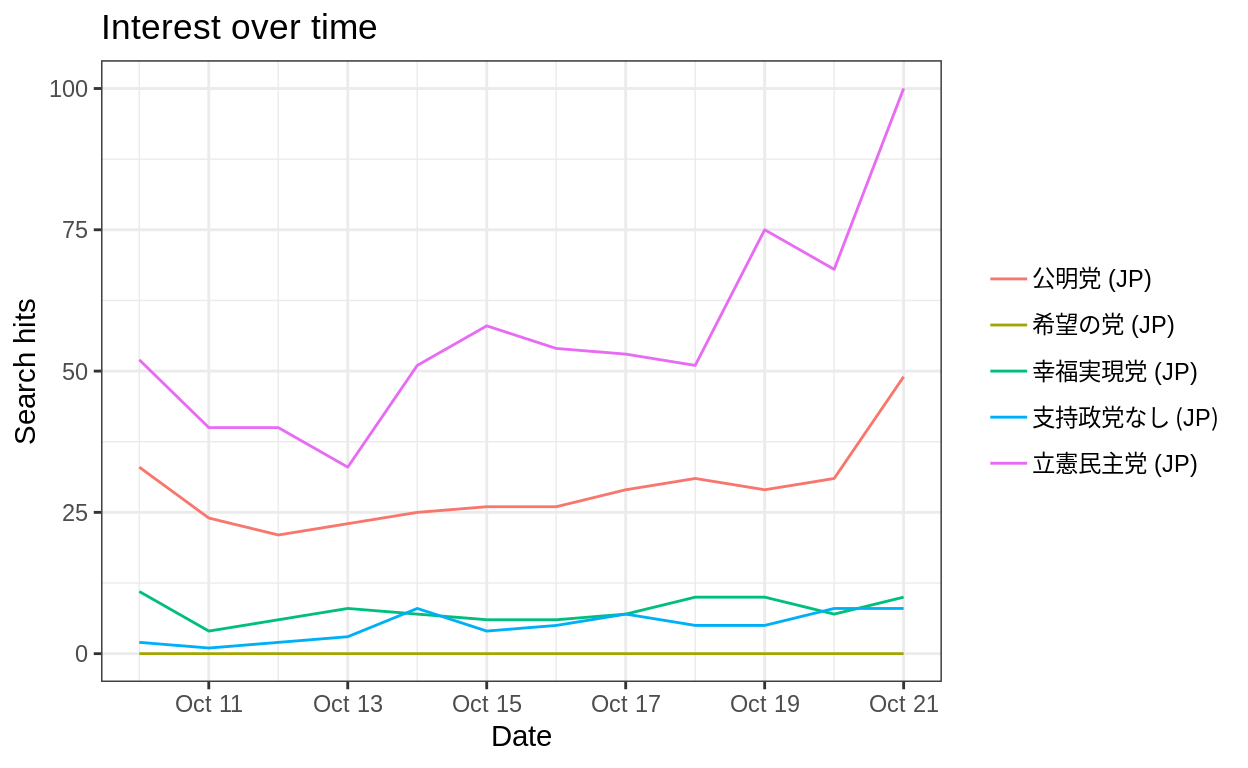
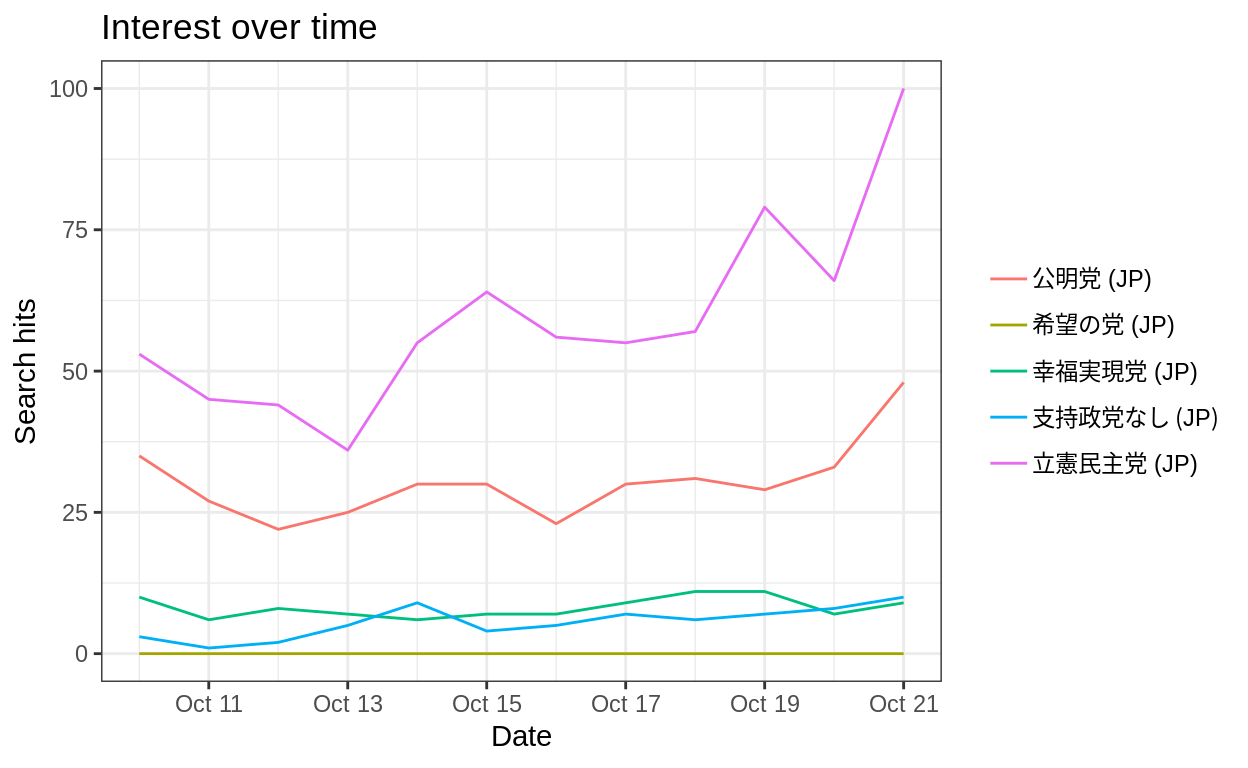
modify note on scraping google trends

diff --git a/notes/posts/2019-05-09-scraping-google/index.html b/notes/posts/2019-05-09-scraping-google/index.html
@@ -1424,7 +1424,7 @@ List of 7
  $ interest_by_country: NULL
  $ interest_by_region :&#39;data.frame&#39;:    94 obs. of  5 variables:
  $ interest_by_dma    : NULL
- $ interest_by_city   :&#39;data.frame&#39;:    72 obs. of  5 variables:
+ $ interest_by_city   :&#39;data.frame&#39;:    73 obs. of  5 variables:
  $ related_topics     : NULL
  $ related_queries    :&#39;data.frame&#39;:    100 obs. of  6 variables:
   ..- attr(*, &quot;reshapeLong&quot;)=List of 4
@@ -1463,7 +1463,7 @@ trend$related_queries %&gt;%
   paged_table()</code></pre>
 <div data-pagedtable="false">
 <script data-pagedtable-source type="application/json">
-{"columns":[{"label":["subject"],"name":[1],"type":["chr"],"align":["left"]},{"label":["related_queries"],"name":[2],"type":["chr"],"align":["left"]},{"label":["value"],"name":[3],"type":["chr"],"align":["left"]},{"label":["geo"],"name":[4],"type":["chr"],"align":["left"]},{"label":["keyword"],"name":[5],"type":["chr"],"align":["left"]},{"label":["category"],"name":[6],"type":["int"],"align":["right"]}],"data":[{"1":"100","2":"top","3":"小泉 純一郎","4":"JP","5":"小泉純一郎","6":"0"},{"1":"98","2":"top","3":"小泉","4":"JP","5":"小泉純一郎","6":"0"},{"1":"10","2":"top","3":"小泉 進次郎","4":"JP","5":"小泉純一郎","6":"0"},{"1":"7","2":"top","3":"小泉 孝太郎","4":"JP","5":"小泉純一郎","6":"0"},{"1":"6","2":"top","3":"小泉 純一郎 妻","4":"JP","5":"小泉純一郎","6":"0"},{"1":"4","2":"top","3":"小泉 純一郎 大学","4":"JP","5":"小泉純一郎","6":"0"},{"1":"4","2":"top","3":"安倍 晋三","4":"JP","5":"小泉純一郎","6":"0"},{"1":"4","2":"top","3":"小泉 純一郎 三男","4":"JP","5":"小泉純一郎","6":"0"},{"1":"4","2":"top","3":"小泉 純一郎 息子","4":"JP","5":"小泉純一郎","6":"0"},{"1":"2","2":"top","3":"小泉 純一郎 現在","4":"JP","5":"小泉純一郎","6":"0"},{"1":"2","2":"top","3":"麻生 太郎","4":"JP","5":"小泉純一郎","6":"0"},{"1":"2","2":"top","3":"宮本 佳代子","4":"JP","5":"小泉純一郎","6":"0"},{"1":"2","2":"top","3":"小池 百合子","4":"JP","5":"小泉純一郎","6":"0"},{"1":"2","2":"top","3":"小泉 純一郎 離婚","4":"JP","5":"小泉純一郎","6":"0"},{"1":"2","2":"top","3":"小泉 純一郎 元 首相 の 出身 大学 は どこ","4":"JP","5":"小泉純一郎","6":"0"},{"1":"1","2":"top","3":"小泉 純一郎 子供","4":"JP","5":"小泉純一郎","6":"0"},{"1":"1","2":"top","3":"小泉 純一郎 若い 頃","4":"JP","5":"小泉純一郎","6":"0"},{"1":"1","2":"top","3":"小泉 純一郎 原発","4":"JP","5":"小泉純一郎","6":"0"},{"1":"1","2":"top","3":"小泉 純一郎 講演","4":"JP","5":"小泉純一郎","6":"0"},{"1":"1","2":"top","3":"宮本 佳 長","4":"JP","5":"小泉純一郎","6":"0"},{"1":"1","2":"top","3":"小泉 純一郎 名言","4":"JP","5":"小泉純一郎","6":"0"},{"1":"1","2":"top","3":"小泉 純一郎 在 日","4":"JP","5":"小泉純一郎","6":"0"},{"1":"1","2":"top","3":"小泉 純一郎 北 朝鮮","4":"JP","5":"小泉純一郎","6":"0"},{"1":"1","2":"top","3":"小沢 一郎","4":"JP","5":"小泉純一郎","6":"0"},{"1":"1","2":"top","3":"小泉 純一郎 姉","4":"JP","5":"小泉純一郎","6":"0"},{"1":"Breakout","2":"rising","3":"第 87 89 代 に 渡り 内閣 総理 大臣 だっ た 小泉 純一郎 の 誕生 日 は","4":"JP","5":"小泉純一郎","6":"0"},{"1":"+4,500%","2":"rising","3":"ヤフー 北 朝鮮","4":"JP","5":"小泉純一郎","6":"0"},{"1":"+4,500%","2":"rising","3":"ビット コイン","4":"JP","5":"小泉純一郎","6":"0"},{"1":"+1,600%","2":"rising","3":"小池 百合子","4":"JP","5":"小泉純一郎","6":"0"},{"1":"+500%","2":"rising","3":"小泉 純一郎 現在","4":"JP","5":"小泉純一郎","6":"0"},{"1":"+400%","2":"rising","3":"小泉 純一郎 誕生 日","4":"JP","5":"小泉純一郎","6":"0"},{"1":"+300%","2":"rising","3":"小泉 純一郎 北 朝鮮","4":"JP","5":"小泉純一郎","6":"0"},{"1":"+250%","2":"rising","3":"小泉 純一郎 嫁","4":"JP","5":"小泉純一郎","6":"0"},{"1":"+250%","2":"rising","3":"小泉 孝太郎 結婚","4":"JP","5":"小泉純一郎","6":"0"},{"1":"+250%","2":"rising","3":"小泉 純一郎 子供","4":"JP","5":"小泉純一郎","6":"0"},{"1":"+250%","2":"rising","3":"小泉 純一郎 姉","4":"JP","5":"小泉純一郎","6":"0"},{"1":"+200%","2":"rising","3":"小泉 純一郎 家 系図","4":"JP","5":"小泉純一郎","6":"0"},{"1":"+180%","2":"rising","3":"小泉 純一郎 の 子供","4":"JP","5":"小泉純一郎","6":"0"},{"1":"+170%","2":"rising","3":"小泉 信 三","4":"JP","5":"小泉純一郎","6":"0"},{"1":"+150%","2":"rising","3":"小泉 純一郎 名言","4":"JP","5":"小泉純一郎","6":"0"},{"1":"+150%","2":"rising","3":"小泉 純一郎 年齢","4":"JP","5":"小泉純一郎","6":"0"},{"1":"+140%","2":"rising","3":"小泉 純一郎 若い 頃","4":"JP","5":"小泉純一郎","6":"0"},{"1":"+130%","2":"rising","3":"小泉 進一郎","4":"JP","5":"小泉純一郎","6":"0"},{"1":"+130%","2":"rising","3":"小泉 純一郎 講演 会","4":"JP","5":"小泉純一郎","6":"0"},{"1":"+120%","2":"rising","3":"小泉 純一郎 離婚 理由","4":"JP","5":"小泉純一郎","6":"0"},{"1":"+110%","2":"rising","3":"小泉 孝太郎","4":"JP","5":"小泉純一郎","6":"0"},{"1":"+100%","2":"rising","3":"小泉 純一郎 講演","4":"JP","5":"小泉純一郎","6":"0"},{"1":"+100%","2":"rising","3":"小泉 純一郎 感動 した","4":"JP","5":"小泉純一郎","6":"0"},{"1":"+100%","2":"rising","3":"小泉 純一郎 学歴","4":"JP","5":"小泉純一郎","6":"0"},{"1":"+100%","2":"rising","3":"宮本 佳 長","4":"JP","5":"小泉純一郎","6":"0"},{"1":"100","2":"top","3":"小泉","4":"JP","5":"小泉進次郎","6":"0"},{"1":"99","2":"top","3":"小泉 進次郎","4":"JP","5":"小泉進次郎","6":"0"},{"1":"11","2":"top","3":"小泉 進次郎 小泉 孝太郎","4":"JP","5":"小泉進次郎","6":"0"},{"1":"11","2":"top","3":"小泉 孝太郎 進次郎","4":"JP","5":"小泉進次郎","6":"0"},{"1":"10","2":"top","3":"小泉 孝太郎","4":"JP","5":"小泉進次郎","6":"0"},{"1":"4","2":"top","3":"小泉 純一郎","4":"JP","5":"小泉進次郎","6":"0"},{"1":"3","2":"top","3":"小泉 進次郎 大学","4":"JP","5":"小泉進次郎","6":"0"},{"1":"3","2":"top","3":"小泉 進次郎 結婚","4":"JP","5":"小泉進次郎","6":"0"},{"1":"2","2":"top","3":"選挙","4":"JP","5":"小泉進次郎","6":"0"},{"1":"2","2":"top","3":"小泉 進次郎 演説","4":"JP","5":"小泉進次郎","6":"0"},{"1":"2","2":"top","3":"小泉 進次郎 彼女","4":"JP","5":"小泉進次郎","6":"0"},{"1":"2","2":"top","3":"自民党","4":"JP","5":"小泉進次郎","6":"0"},{"1":"2","2":"top","3":"自民党 小泉 進次郎","4":"JP","5":"小泉進次郎","6":"0"},{"1":"1","2":"top","3":"小泉 進次郎 身長","4":"JP","5":"小泉進次郎","6":"0"},{"1":"1","2":"top","3":"小泉 進次郎 妻","4":"JP","5":"小泉進次郎","6":"0"},{"1":"1","2":"top","3":"小泉 進次郎 総理","4":"JP","5":"小泉進次郎","6":"0"},{"1":"1","2":"top","3":"小泉 進次郎 ブログ","4":"JP","5":"小泉進次郎","6":"0"},{"1":"1","2":"top","3":"安倍 晋三","4":"JP","5":"小泉進次郎","6":"0"},{"1":"1","2":"top","3":"小泉 進次郎 学歴","4":"JP","5":"小泉進次郎","6":"0"},{"1":"1","2":"top","3":"関東 学院 大学","4":"JP","5":"小泉進次郎","6":"0"},{"1":"1","2":"top","3":"小泉 進次郎 兄弟","4":"JP","5":"小泉進次郎","6":"0"},{"1":"1","2":"top","3":"小泉 進次郎 母","4":"JP","5":"小泉進次郎","6":"0"},{"1":"1","2":"top","3":"宮本 佳代子","4":"JP","5":"小泉進次郎","6":"0"},{"1":"1","2":"top","3":"小泉 進次郎 ツイッター","4":"JP","5":"小泉進次郎","6":"0"},{"1":"1","2":"top","3":"小泉 進次郎 イケメン","4":"JP","5":"小泉進次郎","6":"0"},{"1":"Breakout","2":"rising","3":"ムロツヨシ","4":"JP","5":"小泉進次郎","6":"0"},{"1":"Breakout","2":"rising","3":"小泉 進次郎 スカジャン","4":"JP","5":"小泉進次郎","6":"0"},{"1":"Breakout","2":"rising","3":"小泉 進次郎 新潟","4":"JP","5":"小泉進次郎","6":"0"},{"1":"Breakout","2":"rising","3":"小泉 進次郎 地元","4":"JP","5":"小泉進次郎","6":"0"},{"1":"Breakout","2":"rising","3":"小泉 進次郎 時計","4":"JP","5":"小泉進次郎","6":"0"},{"1":"Breakout","2":"rising","3":"小泉 進次郎 結婚 し てる","4":"JP","5":"小泉進次郎","6":"0"},{"1":"Breakout","2":"rising","3":"中曽根 康隆","4":"JP","5":"小泉進次郎","6":"0"},{"1":"Breakout","2":"rising","3":"加藤 鮎子","4":"JP","5":"小泉進次郎","6":"0"},{"1":"Breakout","2":"rising","3":"安倍 首相","4":"JP","5":"小泉進次郎","6":"0"},{"1":"Breakout","2":"rising","3":"小泉 進次郎 スタジャン","4":"JP","5":"小泉進次郎","6":"0"},{"1":"Breakout","2":"rising","3":"宫 本 佳代子","4":"JP","5":"小泉進次郎","6":"0"},{"1":"Breakout","2":"rising","3":"小泉 進次郎 実績","4":"JP","5":"小泉進次郎","6":"0"},{"1":"Breakout","2":"rising","3":"小泉 進次郎 さしすせそ","4":"JP","5":"小泉進次郎","6":"0"},{"1":"Breakout","2":"rising","3":"鈴木 宗男","4":"JP","5":"小泉進次郎","6":"0"},{"1":"Breakout","2":"rising","3":"小泉 進次郎 スキャンダル","4":"JP","5":"小泉進次郎","6":"0"},{"1":"+2,850%","2":"rising","3":"小泉 深雪","4":"JP","5":"小泉進次郎","6":"0"},{"1":"+1,300%","2":"rising","3":"小池 百合子","4":"JP","5":"小泉進次郎","6":"0"},{"1":"+700%","2":"rising","3":"小泉 進次郎 秘書","4":"JP","5":"小泉進次郎","6":"0"},{"1":"+650%","2":"rising","3":"小泉 進次郎 派閥","4":"JP","5":"小泉進次郎","6":"0"},{"1":"+600%","2":"rising","3":"小泉 孝太郎 結婚","4":"JP","5":"小泉進次郎","6":"0"},{"1":"+550%","2":"rising","3":"マツコ 小泉 進次郎","4":"JP","5":"小泉進次郎","6":"0"},{"1":"+450%","2":"rising","3":"小泉 進次郎 年齢","4":"JP","5":"小泉進次郎","6":"0"},{"1":"+450%","2":"rising","3":"小泉 進次郎 嫁","4":"JP","5":"小泉進次郎","6":"0"},{"1":"+400%","2":"rising","3":"小泉 進一郎","4":"JP","5":"小泉進次郎","6":"0"},{"1":"+300%","2":"rising","3":"小泉 進次郎 妻","4":"JP","5":"小泉進次郎","6":"0"}],"options":{"columns":{"min":{},"max":[10]},"rows":{"min":[10],"max":[10]},"pages":{}}}
+{"columns":[{"label":["subject"],"name":[1],"type":["chr"],"align":["left"]},{"label":["related_queries"],"name":[2],"type":["chr"],"align":["left"]},{"label":["value"],"name":[3],"type":["chr"],"align":["left"]},{"label":["geo"],"name":[4],"type":["chr"],"align":["left"]},{"label":["keyword"],"name":[5],"type":["chr"],"align":["left"]},{"label":["category"],"name":[6],"type":["int"],"align":["right"]}],"data":[{"1":"100","2":"top","3":"小泉 純一郎","4":"JP","5":"小泉純一郎","6":"0"},{"1":"99","2":"top","3":"小泉","4":"JP","5":"小泉純一郎","6":"0"},{"1":"9","2":"top","3":"小泉 進次郎","4":"JP","5":"小泉純一郎","6":"0"},{"1":"7","2":"top","3":"小泉 孝太郎","4":"JP","5":"小泉純一郎","6":"0"},{"1":"5","2":"top","3":"小泉 純一郎 妻","4":"JP","5":"小泉純一郎","6":"0"},{"1":"4","2":"top","3":"安倍 晋三","4":"JP","5":"小泉純一郎","6":"0"},{"1":"4","2":"top","3":"小泉 純一郎 三男","4":"JP","5":"小泉純一郎","6":"0"},{"1":"4","2":"top","3":"小泉 純一郎 大学","4":"JP","5":"小泉純一郎","6":"0"},{"1":"4","2":"top","3":"小泉 純一郎 息子","4":"JP","5":"小泉純一郎","6":"0"},{"1":"3","2":"top","3":"麻生 太郎","4":"JP","5":"小泉純一郎","6":"0"},{"1":"2","2":"top","3":"小泉 純一郎 現在","4":"JP","5":"小泉純一郎","6":"0"},{"1":"2","2":"top","3":"宮本 佳代子","4":"JP","5":"小泉純一郎","6":"0"},{"1":"2","2":"top","3":"小泉 純一郎 離婚","4":"JP","5":"小泉純一郎","6":"0"},{"1":"2","2":"top","3":"小泉 純一郎 若い 頃","4":"JP","5":"小泉純一郎","6":"0"},{"1":"2","2":"top","3":"小池 百合子","4":"JP","5":"小泉純一郎","6":"0"},{"1":"1","2":"top","3":"小泉 純一郎 講演","4":"JP","5":"小泉純一郎","6":"0"},{"1":"1","2":"top","3":"小泉 純一郎 名言","4":"JP","5":"小泉純一郎","6":"0"},{"1":"1","2":"top","3":"小泉 純一郎 子供","4":"JP","5":"小泉純一郎","6":"0"},{"1":"1","2":"top","3":"小泉 純一郎 原発","4":"JP","5":"小泉純一郎","6":"0"},{"1":"1","2":"top","3":"小泉 純一郎 元 首相 の 出身 大学 は どこ","4":"JP","5":"小泉純一郎","6":"0"},{"1":"1","2":"top","3":"宮本 佳 長","4":"JP","5":"小泉純一郎","6":"0"},{"1":"1","2":"top","3":"小泉 純一郎 姉","4":"JP","5":"小泉純一郎","6":"0"},{"1":"1","2":"top","3":"小泉 純一郎 父","4":"JP","5":"小泉純一郎","6":"0"},{"1":"1","2":"top","3":"小泉 純一郎 の 妻","4":"JP","5":"小泉純一郎","6":"0"},{"1":"1","2":"top","3":"小泉 純一郎 講演 会","4":"JP","5":"小泉純一郎","6":"0"},{"1":"Breakout","2":"rising","3":"小池 百合子","4":"JP","5":"小泉純一郎","6":"0"},{"1":"Breakout","2":"rising","3":"小泉 孝太郎 結婚","4":"JP","5":"小泉純一郎","6":"0"},{"1":"Breakout","2":"rising","3":"小泉 策太郎","4":"JP","5":"小泉純一郎","6":"0"},{"1":"Breakout","2":"rising","3":"小泉 純一郎 嫁","4":"JP","5":"小泉純一郎","6":"0"},{"1":"+4,450%","2":"rising","3":"トモダチ 作戦","4":"JP","5":"小泉純一郎","6":"0"},{"1":"+550%","2":"rising","3":"小泉 純一郎 北 朝鮮","4":"JP","5":"小泉純一郎","6":"0"},{"1":"+450%","2":"rising","3":"小泉 純一郎 現在","4":"JP","5":"小泉純一郎","6":"0"},{"1":"+450%","2":"rising","3":"小泉 純一郎 学歴","4":"JP","5":"小泉純一郎","6":"0"},{"1":"+350%","2":"rising","3":"小泉 純一郎 姉","4":"JP","5":"小泉純一郎","6":"0"},{"1":"+300%","2":"rising","3":"小泉 純一郎 の 妻","4":"JP","5":"小泉純一郎","6":"0"},{"1":"+300%","2":"rising","3":"小泉 純一郎 講演 会","4":"JP","5":"小泉純一郎","6":"0"},{"1":"+250%","2":"rising","3":"小泉 純一郎 統合 失調 症","4":"JP","5":"小泉純一郎","6":"0"},{"1":"+250%","2":"rising","3":"小泉 純一郎 誕生 日","4":"JP","5":"小泉純一郎","6":"0"},{"1":"+250%","2":"rising","3":"小泉 純一郎 感動 した","4":"JP","5":"小泉純一郎","6":"0"},{"1":"+200%","2":"rising","3":"小泉 純一郎 身長","4":"JP","5":"小泉純一郎","6":"0"},{"1":"+200%","2":"rising","3":"小泉 純一郎 若い 頃","4":"JP","5":"小泉純一郎","6":"0"},{"1":"+200%","2":"rising","3":"小泉 純一郎 子供","4":"JP","5":"小泉純一郎","6":"0"},{"1":"+180%","2":"rising","3":"小泉 純一郎 離婚 理由","4":"JP","5":"小泉純一郎","6":"0"},{"1":"+160%","2":"rising","3":"小泉 純一郎 名言","4":"JP","5":"小泉純一郎","6":"0"},{"1":"+140%","2":"rising","3":"小泉 信 三","4":"JP","5":"小泉純一郎","6":"0"},{"1":"+130%","2":"rising","3":"小泉 進一郎","4":"JP","5":"小泉純一郎","6":"0"},{"1":"+130%","2":"rising","3":"郵政 民営 化","4":"JP","5":"小泉純一郎","6":"0"},{"1":"+120%","2":"rising","3":"中曽根 康弘","4":"JP","5":"小泉純一郎","6":"0"},{"1":"+120%","2":"rising","3":"小泉 純一郎 自宅","4":"JP","5":"小泉純一郎","6":"0"},{"1":"+110%","2":"rising","3":"安倍 晋三","4":"JP","5":"小泉純一郎","6":"0"},{"1":"100","2":"top","3":"小泉","4":"JP","5":"小泉進次郎","6":"0"},{"1":"100","2":"top","3":"進次郎","4":"JP","5":"小泉進次郎","6":"0"},{"1":"11","2":"top","3":"小泉 孝太郎 小泉 進次郎","4":"JP","5":"小泉進次郎","6":"0"},{"1":"11","2":"top","3":"小泉 孝太郎 進次郎","4":"JP","5":"小泉進次郎","6":"0"},{"1":"10","2":"top","3":"小泉 孝太郎","4":"JP","5":"小泉進次郎","6":"0"},{"1":"4","2":"top","3":"小泉 純一郎","4":"JP","5":"小泉進次郎","6":"0"},{"1":"3","2":"top","3":"小泉 進次郎 大学","4":"JP","5":"小泉進次郎","6":"0"},{"1":"3","2":"top","3":"小泉 進次郎 結婚","4":"JP","5":"小泉進次郎","6":"0"},{"1":"2","2":"top","3":"選挙","4":"JP","5":"小泉進次郎","6":"0"},{"1":"2","2":"top","3":"小泉 進次郎 彼女","4":"JP","5":"小泉進次郎","6":"0"},{"1":"2","2":"top","3":"小泉 進次郎 選挙","4":"JP","5":"小泉進次郎","6":"0"},{"1":"2","2":"top","3":"小泉 進次郎 演説","4":"JP","5":"小泉進次郎","6":"0"},{"1":"1","2":"top","3":"小泉 進次郎 身長","4":"JP","5":"小泉進次郎","6":"0"},{"1":"1","2":"top","3":"自民党 小泉 進次郎","4":"JP","5":"小泉進次郎","6":"0"},{"1":"1","2":"top","3":"自民党","4":"JP","5":"小泉進次郎","6":"0"},{"1":"1","2":"top","3":"小泉 進次郎 総理","4":"JP","5":"小泉進次郎","6":"0"},{"1":"1","2":"top","3":"小泉 進次郎 ブログ","4":"JP","5":"小泉進次郎","6":"0"},{"1":"1","2":"top","3":"安倍 晋三","4":"JP","5":"小泉進次郎","6":"0"},{"1":"1","2":"top","3":"関東 学院 大学","4":"JP","5":"小泉進次郎","6":"0"},{"1":"1","2":"top","3":"小泉 進次郎 妻","4":"JP","5":"小泉進次郎","6":"0"},{"1":"1","2":"top","3":"小泉 進次郎 母","4":"JP","5":"小泉進次郎","6":"0"},{"1":"1","2":"top","3":"小泉 進次郎 学歴","4":"JP","5":"小泉進次郎","6":"0"},{"1":"1","2":"top","3":"小泉 進次郎 兄弟","4":"JP","5":"小泉進次郎","6":"0"},{"1":"1","2":"top","3":"小泉 孝太郎 結婚","4":"JP","5":"小泉進次郎","6":"0"},{"1":"1","2":"top","3":"小泉 進次郎 スカジャン","4":"JP","5":"小泉進次郎","6":"0"},{"1":"Breakout","2":"rising","3":"小泉 進次郎 スカジャン","4":"JP","5":"小泉進次郎","6":"0"},{"1":"Breakout","2":"rising","3":"小泉 進次郎 派閥","4":"JP","5":"小泉進次郎","6":"0"},{"1":"Breakout","2":"rising","3":"希望 の 党","4":"JP","5":"小泉進次郎","6":"0"},{"1":"Breakout","2":"rising","3":"小泉 慎一郎","4":"JP","5":"小泉進次郎","6":"0"},{"1":"Breakout","2":"rising","3":"小泉 進次郎 結婚 し てる","4":"JP","5":"小泉進次郎","6":"0"},{"1":"Breakout","2":"rising","3":"小泉 進次郎 なん j","4":"JP","5":"小泉進次郎","6":"0"},{"1":"Breakout","2":"rising","3":"宫 本 佳代子","4":"JP","5":"小泉進次郎","6":"0"},{"1":"Breakout","2":"rising","3":"小泉 進次郎 さしすせそ","4":"JP","5":"小泉進次郎","6":"0"},{"1":"Breakout","2":"rising","3":"小泉 進次郎 得票 率","4":"JP","5":"小泉進次郎","6":"0"},{"1":"Breakout","2":"rising","3":"内閣 改造","4":"JP","5":"小泉進次郎","6":"0"},{"1":"Breakout","2":"rising","3":"小泉 進次郎 スタジャン","4":"JP","5":"小泉進次郎","6":"0"},{"1":"Breakout","2":"rising","3":"福田 達夫","4":"JP","5":"小泉進次郎","6":"0"},{"1":"Breakout","2":"rising","3":"鈴木 宗男","4":"JP","5":"小泉進次郎","6":"0"},{"1":"Breakout","2":"rising","3":"ikedanob","4":"JP","5":"小泉進次郎","6":"0"},{"1":"+2,800%","2":"rising","3":"ぐっちー","4":"JP","5":"小泉進次郎","6":"0"},{"1":"+2,800%","2":"rising","3":"三宅 洋平","4":"JP","5":"小泉進次郎","6":"0"},{"1":"+850%","2":"rising","3":"小池 百合子","4":"JP","5":"小泉進次郎","6":"0"},{"1":"+350%","2":"rising","3":"小泉 進次郎 兄弟","4":"JP","5":"小泉進次郎","6":"0"},{"1":"+250%","2":"rising","3":"小泉 孝太郎 結婚","4":"JP","5":"小泉進次郎","6":"0"},{"1":"+250%","2":"rising","3":"小泉 兄弟","4":"JP","5":"小泉進次郎","6":"0"},{"1":"+250%","2":"rising","3":"小泉 進次郎 総理","4":"JP","5":"小泉進次郎","6":"0"},{"1":"+200%","2":"rising","3":"小泉 進次郎 結婚","4":"JP","5":"小泉進次郎","6":"0"},{"1":"+180%","2":"rising","3":"小泉 進次郎 年齢","4":"JP","5":"小泉進次郎","6":"0"},{"1":"+140%","2":"rising","3":"安倍 晋三","4":"JP","5":"小泉進次郎","6":"0"},{"1":"+130%","2":"rising","3":"小泉 進次郎 妻","4":"JP","5":"小泉進次郎","6":"0"}],"options":{"columns":{"min":{},"max":[10]},"rows":{"min":[10],"max":[10]},"pages":{}}}
   </script>
 </div>
 </div>
@@ -1537,14 +1537,13 @@ Error: Column `hits` can&#39;t be converted from character to integer</code></pr
 <p>エラーが出ましたが、これは<code>hits</code>には<code>1&lt;</code>という場合があるので文字列になっているためです。 なので、数字をパースしておきます。</p>
 <div class="layout-chunk" data-layout="l-body">
 <pre class="r"><code>
-trend &lt;- bind_rows(trend1$interest_over_time,
+trend &lt;- bind_rows(trend1$interest_over_time %&gt;% 
+                     mutate(hits = parse_number(hits)),
                    trend2$interest_over_time　 %&gt;% 
                      filter(keyword != &quot;立憲民主党&quot;) %&gt;% 
                      mutate(hits = parse_number(hits)),
                    trend3$interest_over_time %&gt;% 
                      filter(keyword != &quot;立憲民主党&quot;))</code></pre>
-<pre><code>
-Error: Column `hits` can&#39;t be converted from character to numeric</code></pre>
 </div>
 <p>時系列プロットができました。</p>
 <div class="layout-chunk" data-layout="l-body">
@@ -1552,8 +1551,7 @@ Error: Column `hits` can&#39;t be converted from character to numeric</code></pr
 trend %&gt;% 
   ggplot() + 
   geom_line(aes(x = date, y = hits, colour = keyword))</code></pre>
-<pre><code>
-Error: `data` must be a data frame, or other object coercible by `fortify()`, not an S3 object with class gtrends/list</code></pre>
+<p><img src="scraping-google_files/figure-html5/unnamed-chunk-15-1.png" width="624" /></p>
 </div>
 <p>これを政党ごとに集計し、選挙結果と政党名を揃えます。</p>
 <div class="layout-chunk" data-layout="l-body">
@@ -1565,13 +1563,13 @@ trend &lt;- trend %&gt;%
            recode(&quot;共産党&quot; = &quot;日本共産党&quot;, 
                   &quot;社民党&quot; = &quot;社会民主党&quot;, 
                   &quot;維新の会&quot; = &quot;日本維新の会&quot;, 
-                  &quot;自民党&quot; = &quot;自由民主党&quot;))</code></pre>
-<pre><code>
-Error in UseMethod(&quot;group_by_&quot;): no applicable method for &#39;group_by_&#39; applied to an object of class &quot;c(&#39;gtrends&#39;, &#39;list&#39;)&quot;</code></pre>
-<pre class="r"><code>
+                  &quot;自民党&quot; = &quot;自由民主党&quot;))
 paged_table(trend)</code></pre>
-<pre><code>
-Error in paged_table(trend): Only data frames can be used to create a paged_table.</code></pre>
+<div data-pagedtable="false">
+<script data-pagedtable-source type="application/json">
+{"columns":[{"label":["keyword"],"name":[1],"type":["chr"],"align":["left"]},{"label":["hits"],"name":[2],"type":["dbl"],"align":["right"]},{"label":["party"],"name":[3],"type":["chr"],"align":["left"]}],"data":[{"1":"公明党","2":"363","3":"公明党"},{"1":"共産党","2":"490","3":"日本共産党"},{"1":"希望の党","2":"0","3":"希望の党"},{"1":"幸福実現党","2":"98","3":"幸福実現党"},{"1":"支持政党なし","2":"67","3":"支持政党なし"},{"1":"新党大地","2":"16","3":"新党大地"},{"1":"日本のこころ","2":"137","3":"日本のこころ"},{"1":"社民党","2":"90","3":"社会民主党"},{"1":"立憲民主党","2":"710","3":"立憲民主党"},{"1":"維新の会","2":"115","3":"日本維新の会"},{"1":"自民党","2":"721","3":"自由民主党"}],"options":{"columns":{"min":{},"max":[10]},"rows":{"min":[10],"max":[10]},"pages":{}}}
+  </script>
+</div>
 </div>
 <p>選挙結果のデータと結合し、散布図を作成します。</p>
 <div class="layout-chunk" data-layout="l-body">
@@ -1580,8 +1578,7 @@ left_join(data, trend, by = &quot;party&quot;) %&gt;%
   ggplot() + 
   geom_text(aes(x = hits, y = votes, label = party)) + 
   geom_smooth(aes(x = hits, y = votes), method = &quot;lm&quot;)</code></pre>
-<pre><code>
-Error in UseMethod(&quot;tbl_vars&quot;): no applicable method for &#39;tbl_vars&#39; applied to an object of class &quot;c(&#39;gtrends&#39;, &#39;list&#39;)&quot;</code></pre>
+<p><img src="scraping-google_files/figure-html5/unnamed-chunk-17-1.png" width="624" /></p>
 </div>
 <p>Yahoo!の結果と比べると自民党と希望の党の位置がちょっと違いますが、わりかし近いのではないでしょうか。</p>
 <ul>
@@ -1597,7 +1594,12 @@ left_join(data, trend, by = &quot;party&quot;) %&gt;%
   scale_x_log10() + 
   scale_y_log10()</code></pre>
 <pre><code>
-Error in UseMethod(&quot;tbl_vars&quot;): no applicable method for &#39;tbl_vars&#39; applied to an object of class &quot;c(&#39;gtrends&#39;, &#39;list&#39;)&quot;</code></pre>
+Warning: Transformation introduced infinite values in continuous x-axis
+
+Warning: Transformation introduced infinite values in continuous x-axis</code></pre>
+<pre><code>
+Warning: Removed 1 rows containing non-finite values (stat_smooth).</code></pre>
+<p><img src="scraping-google_files/figure-html5/unnamed-chunk-18-1.png" width="624" /></p>
 </div>
 <!--radix_placeholder_article_footer-->
 <div class="article-footer">
